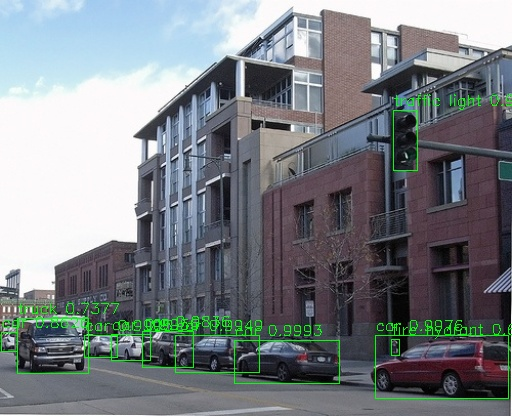
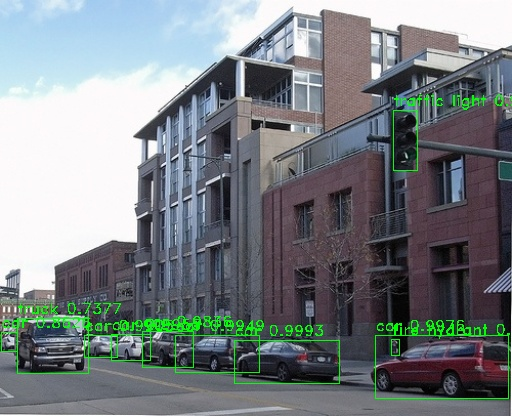
cv2 font hell

Changed region(s): [[0.0312, 0.7188, 0.6562, 0.8125], [0.7812, 0.2188, 1.0, 0.2812], [0.75, 0.75, 1.0, 0.8125]]

diff --git a/model/yolov3.py b/model/yolov3.py
@@ -358,7 +358,7 @@ class YOLOV3(nn.Module):
                     # (x1, y1), (0, 255, 0), 2)
                     cv2.rectangle(cv_im, (x0, y0), (x1, y1), (0, 255, 0), 1)
                     cv2.putText(cv_im, f'{label_map[_cls]} {conf}', (x0, y0 - 5),
-                                cv2.FONT_HERSHEY_SIMPLEX, 0.5, (0, 255, 0))
+                                cv2.FONT_HERSHEY_DUPLEX, 0.5, (0, 255, 0))
 
                 if preview:
                     cv2.imshow('(tap any key to destroy)', cv_im)
